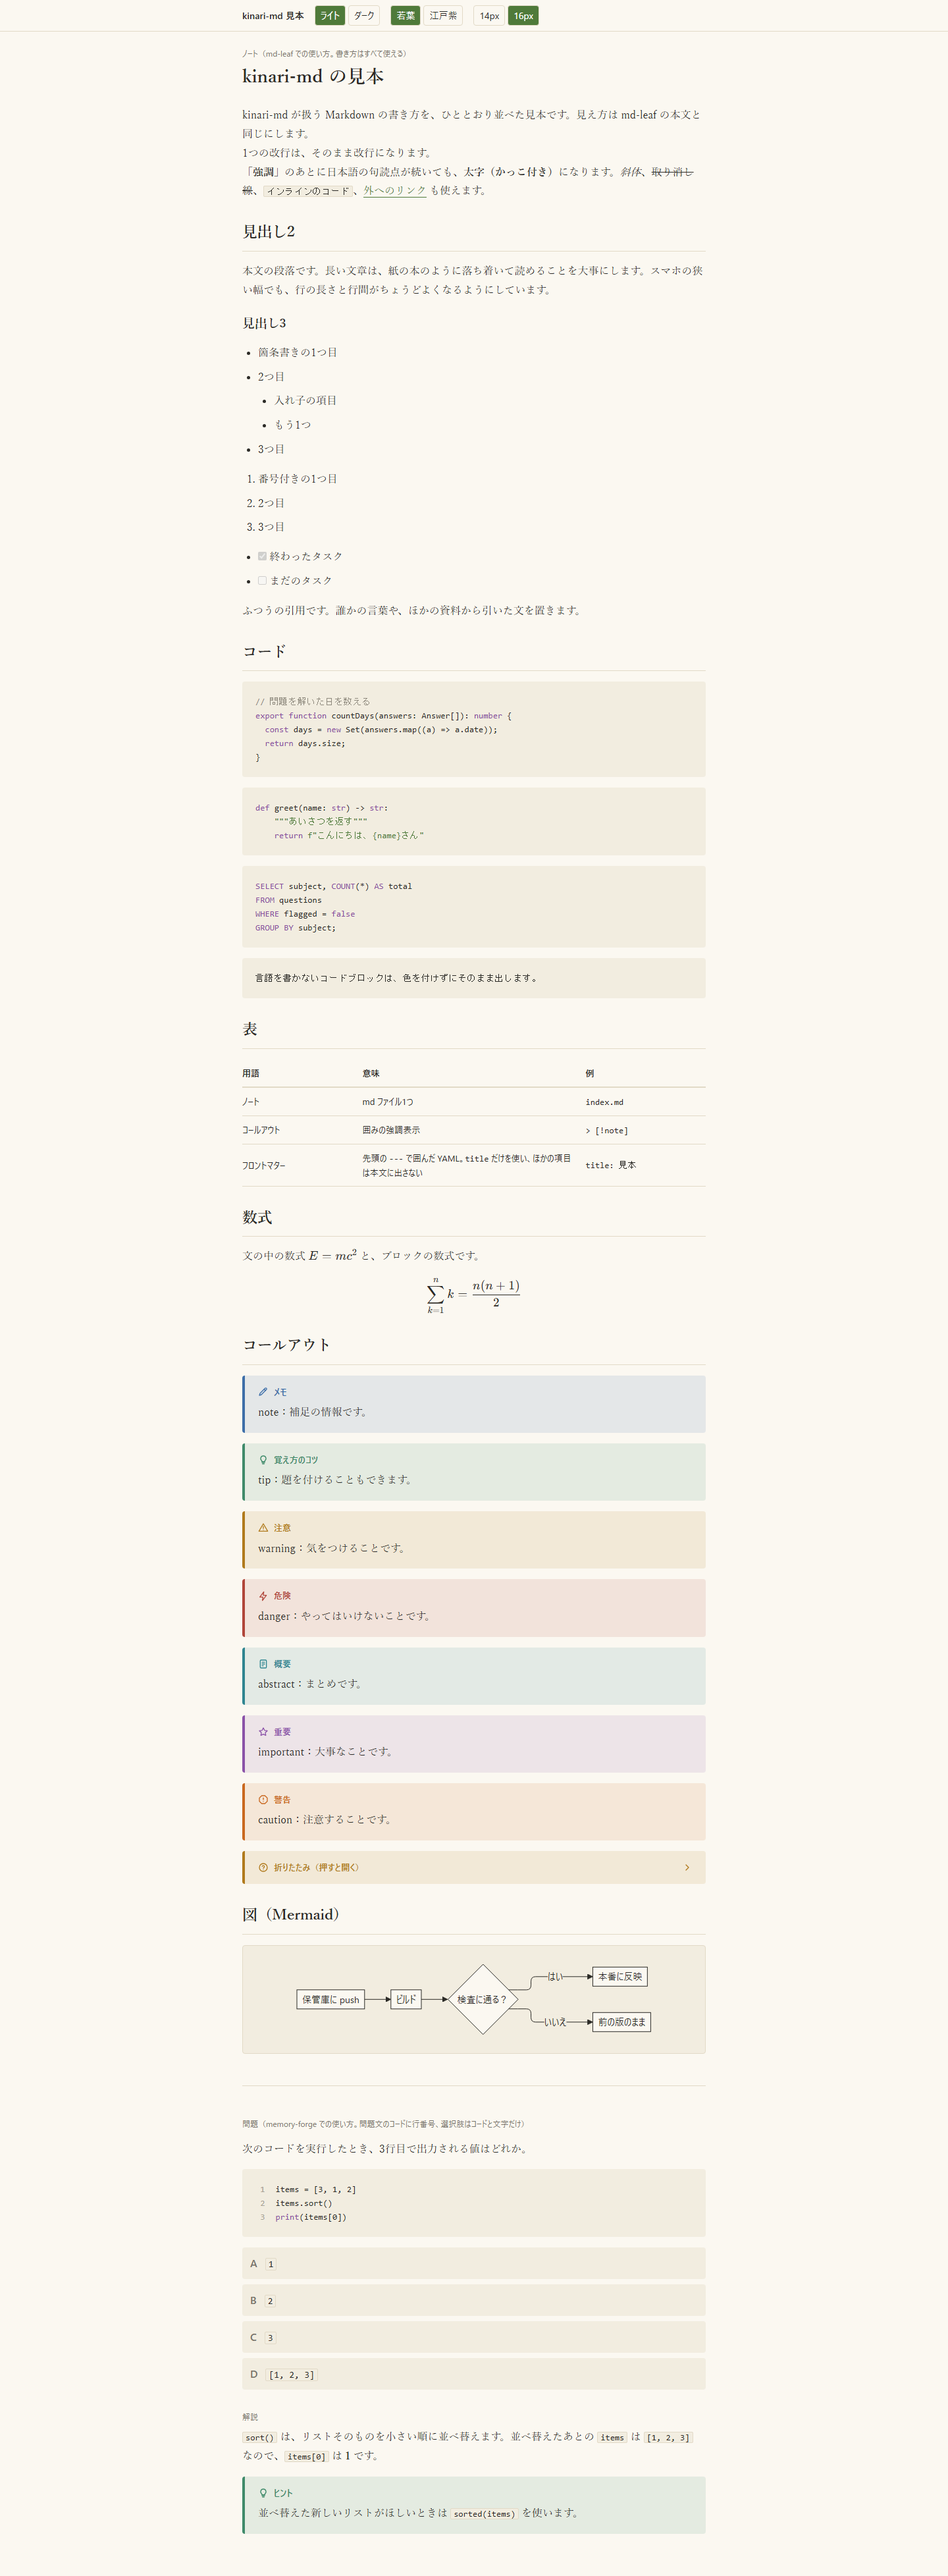
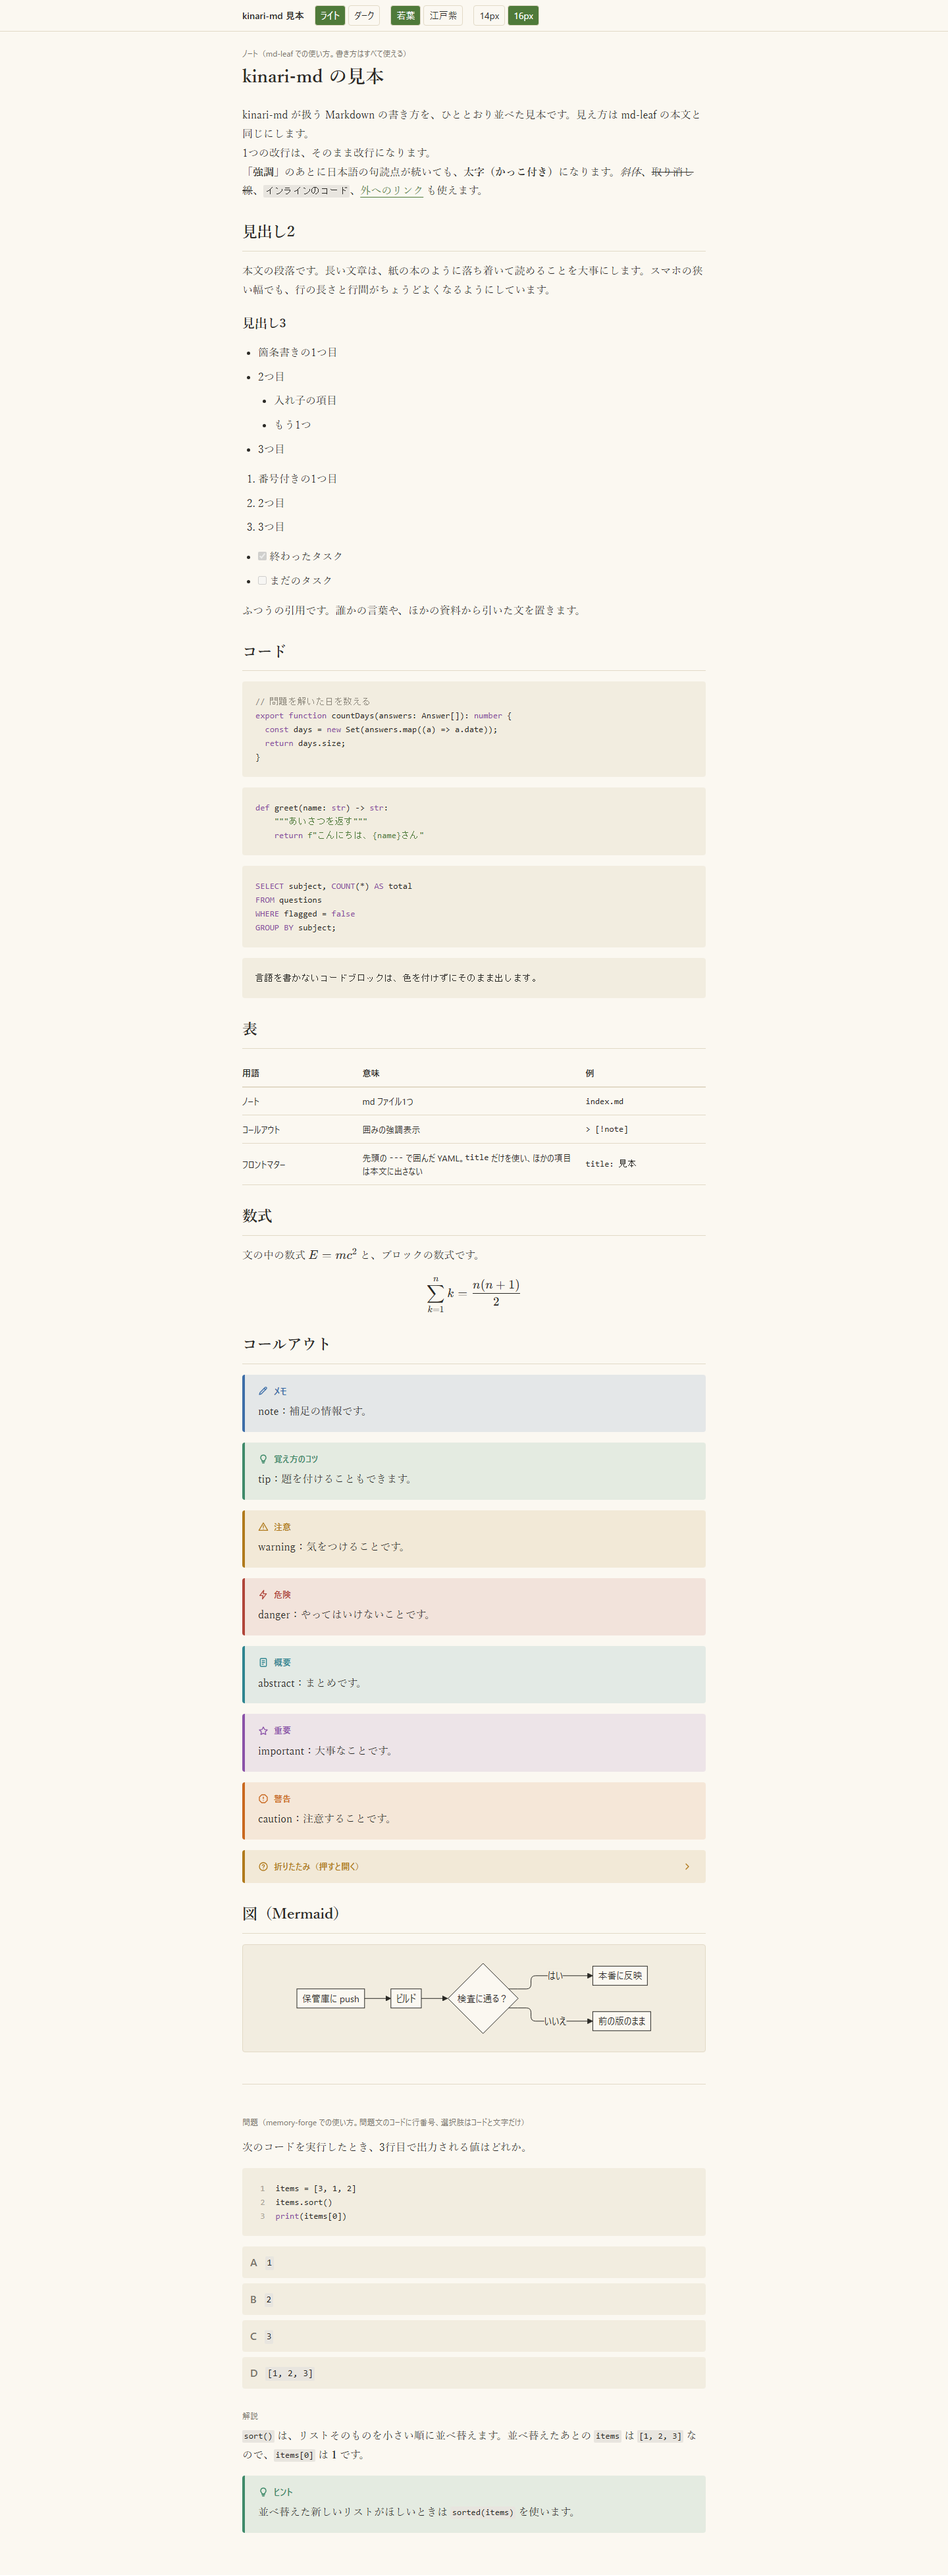
文の中のコードを墨を混ぜた地に決め直し、合意した画像を撮り直す

diff --git a/docs/changes/2026-11-23-restrict-syntax-and-sanitize.md b/docs/changes/2026-11-23-restrict-syntax-and-sanitize.md
@@ -21,8 +21,8 @@ v0.2.0 として出す。
 
 ## 影響する今の仕様
 
-- `docs/specs/markdown.md`：「変換（`renderMarkdown`）」に、選べるもの（書き方を絞る・行番号）と安全にする決まりを足す。「本文の見た目」に行番号と文の中のコードの枠を足す
-- `docs/ui.md`：「部品の使い分け」の「文の中のコード」に枠を足す（機能の仕上げで）
+- `docs/specs/markdown.md`：「変換（`renderMarkdown`）」に、選べるもの（書き方を絞る・行番号）と安全にする決まりを足す。「本文の見た目」に行番号と文の中のコードの見た目を足す
+- `docs/ui.md`：「部品の使い分け」の「文の中のコード」の地と余白を直す（機能の仕上げで）
 - `docs/specs/screens/`：文の中のコードの見た目が変わるので、見本のページの画像はすべて撮り直す
 - `docs/specs/sample-page.md`：「ページの中身」と「画面」に、問題の部分を足す
 
@@ -63,10 +63,12 @@ v0.2.0 として出す。
 
 ### 文の中のコード
 
-- 文の中のコードは、今の code-bg の地に、border の色の細い枠を付けて出す（本文・リスト・コールアウトの中・見出しの中も）
-- 表の中のコードは、今までどおり等幅にするだけで、地も枠も付けない
+- 文の中のコードは、枠を付けず、今より少し濃い地（文字の色を地に薄く混ぜた色）で出す（本文・リスト・コールアウトの中・見出しの中も）
+- コールアウトの中や選択肢の箱の中のように地の色がある場所でも、ライトとダークのどちらでも、地が見分けられる
+- 箱の中で、文字が上下の真ん中に見える（括弧のある `sort()`・`[1, 2, 3]` でも上と下のすき間がそろう）。箱の上下は、まわりの日本語の文字の高さにそろう
+- 左右の余白は小さくする。日本語とコードのあいだの空白は、書いたまま出す（変換で消さない）
+- 表の中のコードは、今までどおり等幅にするだけで、地を付けない
 - コードブロックの見た目は変えない
-- ライトとダークのどちらでも、枠が見える
 - `kinari-md/body.css` の見た目なので、md-leaf の本文も同じように変わる
 
 ### 見本のページ
@@ -74,23 +76,23 @@ v0.2.0 として出す。
 - ノートの本文のあとに、問題の部分を足す（合意した画像のとおり）
   - 小さな説明「問題（memory-forge での使い方。問題文のコードに行番号、選択肢はコードと文字だけ）」
   - 問題文：コードだけ・行番号ありで変換したもの
-  - 選択肢4つ：コードだけで変換したもの。A〜D の記号を付けた地の色の箱に入れる（箱は見本のための仮の見た目）。選択肢の中のコードも、本文の文の中のコードと同じ見た目（枠つき）にする
+  - 選択肢4つ：コードだけで変換したもの。A〜D の記号を付けた地の色の箱に入れる（箱は見本のための仮の見た目）。選択肢の中のコードも、本文の文の中のコードと同じ見た目にする
   - 小さな説明「解説」と、すべての書き方で変換した解説（コールアウトを含む）
 - ライト・ダーク・差し色・文字の大きさの切り替えは、問題の部分にも効く
 
 ### 版
 
-- v0.2.0 として出し、`CHANGELOG.md` に入ったもの（壊れる変更があればそれも）と、変わった見た目（文の中のコードの枠）を書く
+- v0.2.0 として出し、`CHANGELOG.md` に入ったもの（壊れる変更があればそれも）と、変わった見た目（文の中のコードの地と余白）を書く
 
 ## 画面
 
 ### 見本のページ（sample）
 
-変わるのは、ノートの本文のあとに足す問題の部分と、文の中のコードの枠。ほかの部分は今の画面（`docs/specs/screens/`）のまま。問題の部分は立ち上げで合意した画面（`docs/agreed-screens/`）のとおりで、文の中のコードの枠はこの機能のプロトタイプで決めた。
+変わるのは、ノートの本文のあとに足す問題の部分と、文の中のコードの見た目。ほかの部分は今の画面（`docs/specs/screens/`）のまま。問題の部分は立ち上げで合意した画面（`docs/agreed-screens/`）のとおりで、文の中のコードの見た目はこの機能のプロトタイプで決めた。
 
 | 状態 | 表示 | スクリーンショット |
 | --- | --- | --- |
-| ライト・若葉・16px（スマホ） | ノートのあとに、問題文（行番号つきのコード）・選択肢 A〜D の箱・解説（ヒントのコールアウト）が並ぶ。文の中のコードに細い枠 | ![](2026-11-23-restrict-syntax-and-sanitize/sample-light.png) |
+| ライト・若葉・16px（スマホ） | ノートのあとに、問題文（行番号つきのコード）・選択肢 A〜D の箱・解説（ヒントのコールアウト）が並ぶ。文の中のコードは枠のない、少し濃い地 | ![](2026-11-23-restrict-syntax-and-sanitize/sample-light.png) |
 | ダーク・若葉・16px（スマホ） | 同じ。墨の地 | ![](2026-11-23-restrict-syntax-and-sanitize/sample-dark.png) |
 | ダーク・江戸紫（スマホ） | 問題の部分も、差し色が江戸紫になる | ![](2026-11-23-restrict-syntax-and-sanitize/sample-dark-forge.png) |
 | ライト・14px（スマホ） | 問題の部分も、本文と同じく小さくなる | ![](2026-11-23-restrict-syntax-and-sanitize/sample-light-14.png) |
@@ -99,7 +101,11 @@ v0.2.0 として出す。
 
 - スクリーンショットはプロトタイプ（md-leaf の変換で作ったもの）で撮った。文字の倍率は v0.1.1 で直す前のものなので、見出しなどの大きさは今の本番（`docs/specs/screens/`）に合わせる
 
-- 文の中のコード：code-bg の地に border の細い枠、角丸は radius-sm（`docs/ui.md` の「文の中のコード」に足す）
+- 文の中のコード（`docs/ui.md` の「文の中のコード」を直す）。プロトタイプで決めた値：
+  - 地：`color-mix(in srgb, var(--color-text) 9%, var(--color-bg))`。枠なし、角丸は radius-sm。トークンを増やさない（コールアウトの薄い地と同じ作り方）
+  - 余白：上 0.05em・左右 0.2em・下 0.25em。等幅の書体は括弧が下に伸びるので、上を狭く下を広くして、文字を箱の上下の真ん中に見せる
+  - 位置：`vertical-align: 0.12em` で少し上げ、箱を日本語の文字の高さにそろえる
+  - 上の値は、プロトタイプ（Windows の等幅の書体）で測って決めた。本番の画像を撮る環境は等幅の書体が違うので、撮り直した画像で、括弧のあるコードの上下のすき間がそろっているかを確かめ、ずれていれば上下の余白だけを直す
 - 行番号：code-line の色、右にそろえ、番号とコードのあいだを空ける。選んで写すときに含めない（`docs/ui.md` の「コードブロック」にすでにある）
 - 選択肢の箱：code-bg の地、角丸、A〜D の記号はゴシック。箱どうしのあいだを空ける。見本だけの見た目で、kinari-md の見た目ではない（`docs/ui.md` の「見本のページ」にすでにある）
 - 小さな説明（「問題…」「解説」）：ノートの説明と同じ、muted の小さなゴシック
@@ -131,7 +137,11 @@ v0.2.0 として出す。
   - 変換ごと：memory-forge の今の作り（問題文のコードすべてに付く）と同じで、呼ぶ側が決められる
   - ブロックごと（` ```python lines ` のように Markdown に印を書く）：問題を作る人が選べるが、データに印が入り、問題の作り方の決まりも変わる
 - [x] Q5. 文の中のコードを目立たせる変更は、#4 に入れる？別の Issue にする？（推す答え：別の Issue。md-leaf が画面を変えずに替え終わってから入れられる） → #4 に入れる
-- [x] Q6. 文の中のコードの見た目は？（推す答え：A 枠。どこでも箱が見え、リンクの色ともかぶらない。比べた案：B 差し色（リンクと見分けにくい）、C 濃い地（ダークで重い）、D 枠と差し色（リンクと色がかぶる）） → A 枠
+- [x] Q6. 文の中のコードの見た目は？ → 墨を混ぜた地（枠なし）
+  - 最初は A 枠（code-bg の地に border の枠）に決めたが、プロトタイプで見ると、括弧が枠に触れ、枠の色も薄く見にくかった。枠を濃くすると、明朝の本文の中で部品のように見えて安っぽいので、枠をやめた
+  - 枠なしで比べた案：元の地に余白だけ（コールアウトや選択肢の中で見えない）、墨を混ぜた地（どこでも見え、本文から浮かない。これに決めた）、差し色を混ぜた地（ヒントのコールアウトの中で見分けにくい）、薄い地＋コードの色（江戸紫ではリンクの色と近い）
+- [x] Q7. 文の中のコードのまわりのすき間は？（推す答え：左右の余白を小さくし、日本語との空白は書いたまま） → 推す答えのとおり。上下の余白は、文字が箱の上下の真ん中に見えるようにそろえる
+  - 比べた案：変換で日本語とコードのあいだの空白を消す（詰まりすぎる）、空白を消して CSS で決まったすき間を取る（行の頭のコードまで右にずれる）。どちらも出す HTML が md-leaf と変わる
 
 ## 技術の確認表
 
@@ -145,7 +155,7 @@ v0.2.0 として出す。
 | デプロイの環境 | なし（見本のページのデプロイの仕方は変わらない） | AI |
 | 新しいライブラリ | なし（Q3 で自前に決めた） | 人（Q3） |
 | 取り消せない操作 | なし | AI |
-| 共通の部品・トークン | 文の中のコードの見た目（`body.css`）を変え、md-leaf の本文にも効く。トークンは増やさない（`--color-border` と `--radius-sm` を使う。行番号の色 `--color-code-line` もすでにある） | 人（Q5・Q6） |
+| 共通の部品・トークン | 文の中のコードの見た目（`body.css`）を変え、md-leaf の本文にも効く。トークンは増やさない（地は `--color-text` を `--color-bg` に混ぜて作り、角丸は `--radius-sm`。行番号の色 `--color-code-line` もすでにある） | 人（Q5・Q6・Q7） |
 | `docs/design.md` の決まり | 「ノートの HTML は文字にし、raw を作るのは KaTeX と highlight.js だけにする」の前提（「サニタイズ（#4）を入れたら見直す」）を、自前で安全にする形（リンクと画像の行き先を決まった形だけ通す。新しい要素や属性を出す処理を足したら見直す）に直す。「アプリから渡す関数の形」に、選べるもの（書き方・行番号）を足す | 人（Q3） |
 
 ## 調べたこと
